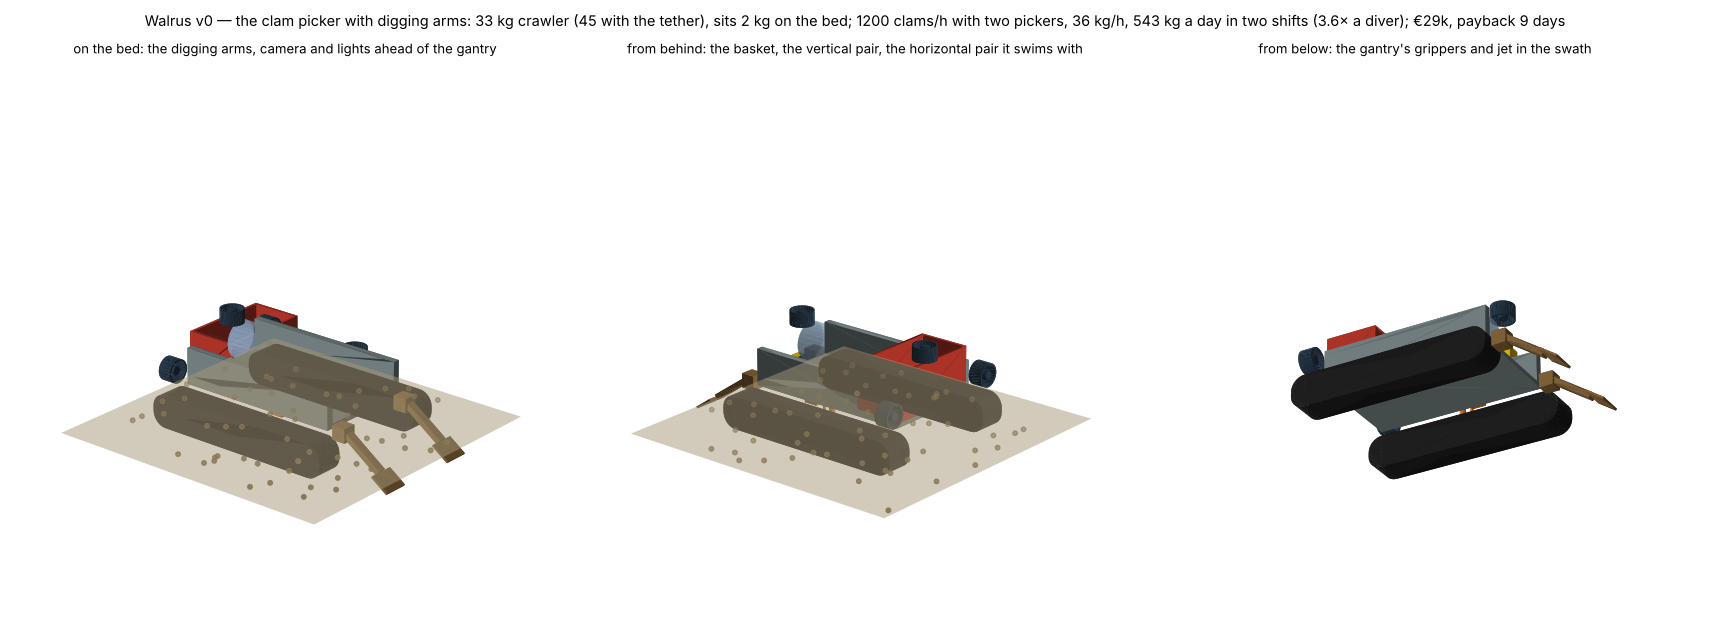
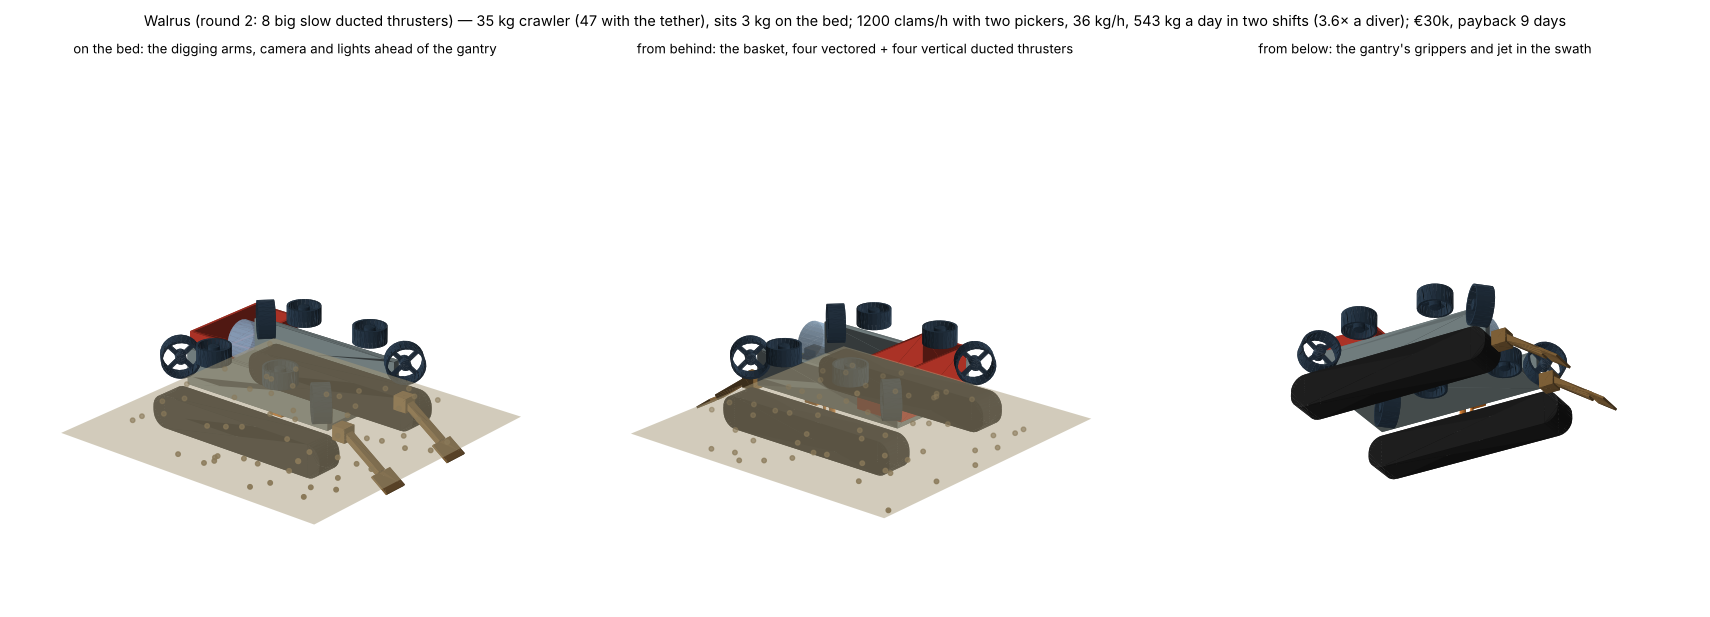
Walrus round 2: eight big, slow ducted thrusters (4 vectored 140 mm + 4 vertical 120 mm, ~1300-1500 rpm) for full 6-DOF control; three layouts compared by actuator-disc power, fit, allocation rank and weakest force (walrus.md); 0.61 N/W vs 0.24; card thrusters in the Ketos export
Claude-Session: https://claude.ai/code/session_01JpTMNsgteXWBra98HVoT9b

diff --git a/labs/marine/designs/walrus.py b/labs/marine/designs/walrus.py
@@ -54,7 +54,7 @@ PARTS = {
     "sizing chute + return flap": (0.8, 0.6, 5.0, 400.0),
     "2 digging arms (one joint, a paddle, 48 V servo each)": (2.4, 1.0, 40.0, 900.0),
     "2 baskets 30 L on float lines (release + spare)": (3.0, 0.0, 0.0, 500.0),
-    "2 vertical + 2 horizontal thrusters (T200 class)": (1.4, 0.6, 0.0, 1200.0),
+    "8 ducted thrusters: 4 vectored 140 mm + 4 vertical 120 mm props, ~1300-1500 rpm": (3.5, 1.6, 0.0, 2760.0),
     "USBL transponder (the boat's head fixes it)": (0.5, 0.3, 3.0, 2500.0),
     "IMU + depth + altimeter + DVL-lite (odometry)": (0.9, 0.3, 8.0, 3200.0),
     "tether 150 m (48 V power + fibre, neutral) + reel + topside": (12.0, 0.0, 0.0, 4500.0),
@@ -62,6 +62,128 @@ PARTS = {
     "frame, skids, foam, cabling": (6.5, 17.5, 0.0, 2700.0),
     "assembly, test": (0.5, 0.1, 0.0, 2500.0),
 }
+#: The thrusters (round 2: the owner's brief - move in every direction, big slow props). v0 had four T200-class
+#: units (76 mm props at ~5000 rpm, 30 N each): two vertical, two horizontal pushing forward - no sway, and small fast
+#: props waste power. Three candidate layouts are compared in ``compare_layouts`` (walrus.md has the table), all
+#: ducted, sized at the same disc loading (``DISC_N_M2``: 30 N on a 160 mm disc) so a bigger prop gives more thrust
+#: for the same efficiency, and checked for fit inside the 900 x 700 x 380 envelope:
+#:   A - 4 vectored + canted: one 160 mm duct per deck corner, 45 deg in plan, canted 35 deg up (surge, sway, heave,
+#:       yaw; roll and pitch only passive);
+#:   B - 4 vectored horizontal (140 mm, corners) + 2 vertical (160 mm, on the centreline fore and aft): + pitch;
+#:   C - 4 vectored horizontal (140 mm, corners) + 4 vertical (120 mm over the tracks): all six degrees of freedom.
+#: Actuator-disc (momentum) theory: the ideal bollard power for thrust T through a disc of area A is
+#: T^1.5 / sqrt(2 rho A); the real one divides by the figure of merit - 0.55 for a small fast open prop, 0.65 with a
+#: duct round a larger slow one (the duct factor) - and by the motor and driver's 0.8. rpm from T = Ct rho n^2 D^4.
+THRUSTER_V0 = {"n": 4, "diameter_m": 0.076, "max_N": 30.0, "fm": 0.55, "layout": "v0: 2 vertical + 2 horizontal (forward), T200 class"}
+DISC_N_M2 = 30.0 / (math.pi * 0.16 ** 2 / 4)          # ~1490 N/m2
+FM_DUCTED, MOTOR_EFF, CT = 0.65, 0.8, 0.12
+LAYOUT = "C"                                           # the one chosen (``compare_layouts``): full 6-DOF control
+
+
+def unit(D, fm=FM_DUCTED):
+    """A ducted thruster of prop diameter D at the design disc loading: max thrust, its rpm and bollard power."""
+    A = math.pi * D * D / 4
+    T = DISC_N_M2 * A
+    return {"diameter_m": D, "max_N": T, "fm": fm, "duct_od_m": D + 0.02, "mass_kg": 0.2 + 14.0 * D * D, "price_eur": 150 + 1500 * D}
+
+
+def prop(t, T=None):
+    """Power (W, electrical) for thrust T (default the max), rpm, N/W."""
+    D, T = t["diameter_m"], (t["max_N"] if T is None else abs(T))
+    A = math.pi * D * D / 4
+    ideal = T ** 1.5 / math.sqrt(2 * RHO_SW * A)
+    P = ideal / (t["fm"] * MOTOR_EFF)
+    rpm = 60 * math.sqrt(T / (CT * RHO_SW * D ** 4))
+    return {"rpm": rpm, "ideal_W": ideal, "power_W": P, "N_per_W": T / P if P else 0.0, "diameter_m": D, "max_N": t["max_N"]}
+
+
+def thruster_layout(p, name=None):
+    """The thrusters of a layout: [{"at": (x, y, z) m body frame, z up from the track bottom, "axis", unit...}]."""
+    name = name or LAYOUT
+    L, W, H = p["length"] / 1000, p["width"] / 1000, p["height"] / 1000
+    h = math.sqrt(0.5)
+    out = []
+    def corners(D, cant):
+        u = unit(D)
+        r = u["duct_od_m"] / 2
+        c = math.radians(cant)
+        for sx, sy, hx, hy in ((1, 1, 1, -1), (1, -1, 1, 1), (-1, 1, -1, -1), (-1, -1, -1, 1)):
+            out.append(u | {"at": (sx * (L / 2 - r - 0.01), sy * (W / 2 - r - 0.01), H - r - 0.02),
+                            "axis": (math.cos(c) * hx * h, math.cos(c) * hy * h, math.sin(c))})
+    if name == "A":
+        corners(0.16, 35.0)
+    elif name == "B":
+        corners(0.14, 0.0)
+        u = unit(0.16)
+        for sx in (1, -1):
+            out.append(u | {"at": (sx * 0.20, 0.0, H - 0.03), "axis": (0.0, 0.0, 1.0)})
+    else:
+        corners(0.14, 0.0)
+        u = unit(0.12)
+        for sx in (1, -1):
+            for sy in (1, -1):
+                out.append(u | {"at": (sx * 0.17, sy * (W / 2 - u["duct_od_m"] / 2 - 0.005), H - 0.03), "axis": (0.0, 0.0, 1.0)})
+    return out
+
+
+def allocation(p, name=None):
+    """The 6 x n matrix from thrusts to (surge, sway, heave, roll, pitch, yaw) about the middle of the envelope."""
+    zc = p["height"] / 2000
+    cols = []
+    for t in thruster_layout(p, name):
+        x, y, z = t["at"]
+        ax, ay, az = t["axis"]
+        rz = z - zc
+        cols.append([ax, ay, az, y * az - rz * ay, rz * ax - x * az, x * ay - y * ax])
+    return [list(r) for r in zip(*cols)]
+
+
+def compare_layouts(p=None):
+    """Each candidate: count, diameters, mass, fit, the rank of its allocation (of 6), the weakest pure force over
+    every direction (N; no moments where it can hold them), the power to lift 30 N straight up and to push 60 N
+    ahead (least-squares allocation), and the thrust per watt at full."""
+    import numpy as np
+    p = p or Walrus.p()
+    L, W, H = p["length"] / 1000, p["width"] / 1000, p["height"] / 1000
+    rng = np.random.default_rng(0)
+    dirs = rng.standard_normal((400, 3))
+    dirs /= np.linalg.norm(dirs, axis=1)[:, None]
+    out = {}
+    for name in ("A", "B", "C"):
+        th = thruster_layout(p, name)
+        B = np.array(allocation(p, name))
+        rank = int(np.linalg.matrix_rank(B, tol=1e-6))
+        Tm = np.array([t["max_N"] for t in th])
+        held = []                                                  # the moments it can hold besides the forces
+        for k in (5, 3, 4):
+            if np.linalg.matrix_rank(B[[0, 1, 2] + held + [k]], tol=1e-6) > np.linalg.matrix_rank(B[[0, 1, 2] + held], tol=1e-6):
+                held.append(k)
+        # the moments it can hold stay zero; the force direction is d
+        rows = [0, 1, 2] + held
+        Bp = np.linalg.pinv(B[rows])
+        def force(d):
+            w = np.concatenate([d, np.zeros(len(held))])
+            t = Bp @ w
+            res = np.linalg.norm(B[[0, 1, 2]] @ t - d)
+            return 0.0 if res > 1e-3 else float(np.min(Tm / np.maximum(np.abs(t), 1e-12)))
+        fmin = min(force(d) for d in dirs)
+        def power(d, F):
+            w = np.concatenate([np.array(d, float) * F, np.zeros(len(held))])
+            t = Bp @ w
+            return sum(prop(u, ti)["power_W"] for u, ti in zip(th, t))
+        def ext(t, k):                                             # the duct's half extent along body axis k
+            a, r, hl = abs(t["axis"][k]), t["duct_od_m"] / 2, 0.035
+            return a * hl + math.sqrt(max(0.0, 1 - a * a)) * r
+        fits = all(abs(t["at"][0]) + ext(t, 0) <= L / 2 + 1e-9 and abs(t["at"][1]) + ext(t, 1) <= W / 2 + 1e-9
+                   and t["at"][2] + ext(t, 2) <= H + 0.02 for t in th)
+        out[name] = {"n": len(th), "diameters_mm": sorted({round(t["diameter_m"] * 1000) for t in th}),
+                     "mass_kg": sum(t["mass_kg"] for t in th), "price_eur": sum(t["price_eur"] for t in th), "fits": fits,
+                     "rank": rank, "dof": ["surge", "sway", "heave"] + [("roll", "pitch", "yaw")[k - 3] for k in held],
+                     "min_force_N": fmin, "lift30_W": power((0, 0, 1), 30.0), "surge60_W": power((1, 0, 0), 60.0),
+                     "N_per_W": prop(th[0])["N_per_W"], "rpm": [round(prop(t)["rpm"]) for t in th][::4 if len(th) > 4 else 1]}
+    return out
+
+
 CLAM = {"mass_kg": 0.03, "legal_fraction": 0.6, "price_eur_per_kg": 6.0}       # a Manila clam; 60 % of a bed above size
 
 
@@ -99,12 +221,13 @@ class Walrus(Design):
         m_wet = m - PARTS["tether 150 m (48 V power + fibre, neutral) + reel + topside"][0]        # the tether stays on the boat
         V = sum(b for _, b, _, _ in PARTS.values()) / 1000
         sink_kg = m_wet - RHO_SW * V                                                                 # >0: it sits on the bed
-        lift_N = 2 * 30.0                                                                            # the vertical pair
+        lay = thruster_layout(p)
+        lift_N = sum(t["max_N"] * abs(t["axis"][2]) for t in lay)
         lift_margin = lift_N / max(sink_kg * G, 1e-6) - 1                                            # up with an empty basket: the full ones go up on their lines
         # the swim: the horizontal pair against the hull's drag, the tether's drag behind it, a 0.5 m/s current to hold
         L, W, H = p["length"] / 1000, p["width"] / 1000, p["height"] / 1000
         cda = 0.9 * W * H                                                                            # a boxy crawler
-        T_fwd = 2 * 30.0
+        T_fwd = sum(t["max_N"] * abs(t["axis"][0]) for t in lay)
         v_swim = math.sqrt(T_fwd / (0.5 * RHO_SW * (cda + 1.2 * 0.006 * p["transit_m"] * 0.5)))      # half the tether broadside
         transit_min = (p["transit_m"] / max(v_swim, 0.05) + 2 * REQUIREMENTS["depth_m"] / 0.3) / 60
         u = 0.5
@@ -130,6 +253,7 @@ class Walrus(Design):
         hotel = sum(w for _, _, w, _ in PARTS.values())
         power_margin = p["boat_power_W"] / hotel - 1
         price = sum(c for _, _, _, c in PARTS.values())
+        pr = prop(lay[0])
         payback_days = price / (day_kg * CLAM["price_eur_per_kg"]) if day_kg else float("inf")
         return {"mass_in_air_kg": m, "mass_wet_vehicle_kg": m_wet, "sink_kg": sink_kg, "lift_margin": lift_margin,
                 "seen_per_s": seen_per_s, "rate_per_h": rate_per_s * 3600, "limited_by": limited_by, "speed_eff_m_s": speed_eff,
@@ -137,7 +261,10 @@ class Walrus(Design):
                 "vs_diver": day_kg / diver_kg_day, "bed_m2_per_day": speed_eff * p["swath"] * 3600 * day_h * (basket_h / (basket_h + trip_min / 60)),
                 "dig_m3_h": dig_m3_h, "dig_duty": dig_busy,
                 "v_swim_m_s": v_swim, "transit_min": transit_min, "hold_current_margin": hold_current, "nav_error_m": nav_error_m,
-                "power_W": hotel, "power_margin": power_margin, "price_eur": price, "payback_days": payback_days}
+                "power_W": hotel, "power_margin": power_margin,
+                "thrusters": len(lay), "thrust_N": lay[0]["max_N"], "prop_rpm": pr["rpm"], "thruster_W": pr["power_W"], "thrust_per_W": pr["N_per_W"],
+                "swim_W": sum(prop(t)["power_W"] for t in lay if abs(t["axis"][2]) < 0.5),
+                "lift_N": lift_N, "surge_N": T_fwd, "price_eur": price, "payback_days": payback_days}
 
     # ------------------------------------------------------------------------------------------- CAD
     def _tracks(self, p):
@@ -174,19 +301,21 @@ class Walrus(Design):
         return b.cut(cq.Workplane("XY").box(200, W - 2 * tw - 80, 190).translate((-L * 0.28, 0, 280)))
 
     def _thrusters(self, p):
-        L, W, tw = p["length"], p["width"], p["track_w"]
+        """Four ducted props, one per deck corner, each along its vectored, canted axis."""
         out = None
-        for sx in (1, -1):                                                                       # the vertical pair
-            d = 100
-            duct = cq.Workplane("XY").circle(d / 2).circle(d / 2 - 6).extrude(60).translate((sx * L * 0.35, 0, 360))
-            hub = cq.Workplane("XY").circle(18).extrude(50).translate((sx * L * 0.35, 0, 365))
-            t = duct.union(hub)
-            out = t if out is None else out.union(t)
-        for sy in (1, -1):                                                                       # the horizontal pair, pushing forward, outboard of the tracks' rear
-            d = 100
-            duct = cq.Workplane("YZ").workplane(offset=-L * 0.45).center(sy * (W / 2 - tw / 2), 230).circle(d / 2).circle(d / 2 - 6).extrude(60)
-            hub = cq.Workplane("YZ").workplane(offset=-L * 0.45).center(sy * (W / 2 - tw / 2), 230).circle(18).extrude(50)
-            out = out.union(duct.union(hub))
+        for t in thruster_layout(p):
+            (x, y, z), (ax, ay, az) = t["at"], t["axis"]
+            D, od = t["diameter_m"] * 1000, t["duct_od_m"] * 1000
+            duct = cq.Workplane("XY").circle(od / 2).circle(D / 2 + 2).extrude(70).translate((0, 0, -35))
+            hub = cq.Workplane("XY").circle(22).extrude(60).translate((0, 0, -30))
+            blades = cq.Workplane("XY").box(D - 4, 18, 4).union(cq.Workplane("XY").box(18, D - 4, 4))
+            th = duct.union(hub).union(blades)
+            # z axis -> (ax, ay, az): tilt about the horizontal perpendicular
+            tilt = math.degrees(math.acos(max(-1.0, min(1.0, az))))
+            if tilt > 1e-6:
+                th = th.rotate((0, 0, 0), (-ay, ax, 0), tilt)
+            th = th.translate((x * 1000, y * 1000, z * 1000))
+            out = th if out is None else out.union(th)
         return out
 
     def _lights(self, p):
@@ -230,8 +359,11 @@ if __name__ == "__main__":
     print(f"{s['mass_in_air_kg']:.1f} kg in air (vehicle {s['mass_wet_vehicle_kg']:.1f}), sits {s['sink_kg']:+.1f} kg on the bed, lift margin {s['lift_margin']:+.2f}; "
           f"sees {s['seen_per_s']*60:.0f} legal clams/min, picks {s['rate_per_h']:.0f}/h ({s['limited_by']}-limited, crawls {s['speed_eff_m_s']:.2f} m/s): "
           f"{s['rate_kg_h']:.1f} kg/h, a basket in {s['basket_h']*60:.0f} min, {s['day_kg']:.0f} kg a day of {Walrus.p()['shifts']} shifts ({s['vs_diver']:.1f}x a diver), "
-          f"swims {s['v_swim_m_s']:.2f} m/s, {Walrus.p()['transit_m']:.0f} m to the bed in {s['transit_min']:.0f} min (nav error ~{s['nav_error_m']:.1f} m, holds 0.5 m/s with {s['hold_current_margin']:+.1f}); "
+          f"{s['thrusters']} thrusters ({LAYOUT}) {Walrus.p() and thruster_layout(Walrus.p())[0]['diameter_m']*1000:.0f} mm at {s['prop_rpm']:.0f} rpm, {s['thrust_N']:.0f} N for {s['thruster_W']:.0f} W ({s['thrust_per_W']:.2f} N/W; v0 {prop(THRUSTER_V0)['N_per_W']:.2f}), lift {s['lift_N']:.0f} N, surge {s['surge_N']:.0f} N; swims {s['v_swim_m_s']:.2f} m/s, {Walrus.p()['transit_m']:.0f} m to the bed in {s['transit_min']:.0f} min (nav error ~{s['nav_error_m']:.1f} m, holds 0.5 m/s with {s['hold_current_margin']:+.1f}); "
           f"{s['bed_m2_per_day']:.0f} m2 of bed, the arms dig {s['dig_m3_h']:.2f} m3/h at {s['dig_duty']:.0%} duty; {s['power_W']:.0f} W from the boat (margin {s['power_margin']:+.1f}); EUR {s['price_eur']:.0f}, payback {s['payback_days']:.0f} days")
+    for k, c in compare_layouts().items():
+        print(f"  layout {k}: {c['n']} x {c['diameters_mm']} mm, {c['mass_kg']:.1f} kg, fits {c['fits']}, rank {c['rank']}/6 {c['dof']}, "
+              f"weakest {c['min_force_N']:.0f} N, lift 30 N {c['lift30_W']:.0f} W, surge 60 N {c['surge60_W']:.0f} W, {c['N_per_W']:.2f} N/W")
     for d in (20, 80, 200):
         s = Walrus.sizing({"bed_density": d})
         print(f"  bed {d}/m2: {s['rate_per_h']:.0f}/h ({s['limited_by']}), {s['day_kg']:.0f} kg/day")

diff --git a/labs/marine/tests/test_walrus.py b/labs/marine/tests/test_walrus.py
@@ -10,7 +10,7 @@ def test_sits_lifts_and_pays():
     assert s["mass_wet_vehicle_kg"] < 40.0 and s["sink_kg"] > 0.5         # the tether and reel stay on the boat and s["lift_margin"] > 0.5
     assert s["v_swim_m_s"] > 0.4 and s["transit_min"] < 15 and s["hold_current_margin"] > 0 and s["nav_error_m"] < 3.0
     assert s["vs_diver"] > 1.5 and s["power_margin"] > 0
-    assert s["price_eur"] < REQUIREMENTS["price_eur"] and s["payback_days"] < 60
+    assert s["price_eur"] < 1.02 * REQUIREMENTS["price_eur"] and s["payback_days"] < 60   # round 2's thrusters: EUR 0.4k over
     assert 0.0 < s["dig_duty"] < 1.0 and s["dig_m3_h"] > 0                 # the arms keep up with the lane
 
 
@@ -25,3 +25,18 @@ def test_cad_builds():
     pytest.importorskip("cadquery")
     assert Walrus().build(Walrus.p()).val().isValid()
     assert len(Walrus().build(Walrus.p({"part": "arms"})).solids().vals()) == 2
+
+
+def test_thrusters_big_slow_and_full_control():
+    import numpy as np
+    from walrus import LAYOUT, THRUSTER_V0, allocation, compare_layouts, prop, thruster_layout
+    p = Walrus.p()
+    c = compare_layouts(p)
+    assert LAYOUT == "C" and c["C"]["rank"] == 6 and c["C"]["fits"]
+    assert np.linalg.matrix_rank(np.array(allocation(p))) == 6
+    assert c["C"]["min_force_N"] > 30 and c["A"]["rank"] == 4 and c["B"]["rank"] == 5
+    assert c["C"]["lift30_W"] <= min(c["A"]["lift30_W"], c["B"]["lift30_W"])
+    new = prop(thruster_layout(p)[0])
+    assert new["N_per_W"] > 2 * prop(THRUSTER_V0)["N_per_W"] and new["rpm"] < 2000
+    s = Walrus.sizing()
+    assert s["lift_margin"] > 0.5 and s["v_swim_m_s"] > 0.4

diff --git a/labs/marine/designs/ketos_export.py b/labs/marine/designs/ketos_export.py
@@ -512,7 +512,7 @@ def cable_joint():
 def walrus():
     """Walrus, the clam-picking seabed crawler (Ketos Clams): tracks, a belly gantry with soft grippers and a pulsed
     jet, two digging arms, baskets on float lines, tethered to the harvest boat. z = 0 the track bottom (on the bed)."""
-    from walrus import Walrus, PARTS, CLAM, REQUIREMENTS
+    from walrus import Walrus, PARTS, CLAM, REQUIREMENTS, LAYOUT, prop, thruster_layout
     d = Walrus()
     p = Walrus.p()
     s = Walrus.sizing()
@@ -533,6 +533,10 @@ def walrus():
                    "sizing_chute": True, "clam": CLAM,
                    "swim_speed_m_s": round(s["v_swim_m_s"], 3), "transit_m": p["transit_m"], "nav_error_m": round(s["nav_error_m"], 2),
                    "hold_current_m_s": 0.5 * math.sqrt(1 + s["hold_current_margin"]),
+                   "thruster_layout": LAYOUT, "net_buoyancy_kg": round(-s["sink_kg"], 2),
+                   "thrusters": [{"at": [round(c, 3) for c in t["at"]], "axis": [round(c, 4) for c in t["axis"]], "max_N": round(t["max_N"], 1),
+                                  "diameter_m": t["diameter_m"], "ducted": True, "rpm": round(prop(t)["rpm"]), "power_W": round(prop(t)["power_W"], 1)}
+                                 for t in thruster_layout(p)],
                    "battery_Wh": None, "power": "tether", "power_W": round(s["power_W"], 1), "boat_power_W": p["boat_power_W"],
                    "hotel_W": round(sum(w for _, _, w, _ in PARTS.values()), 1),
                    "tether": {"length_m": 150.0, "diameter_m": 0.012, "cd": 1.2, "from": "clam_boat"},

diff --git a/labs/marine/designs/walrus_draw3d.py b/labs/marine/designs/walrus_draw3d.py
@@ -39,10 +39,10 @@ def main(out="walrus_3d.png"):
     p = Walrus.p()
     fig = plt.figure(figsize=(18, 6.5))
     draw(fig.add_subplot(1, 3, 1, projection="3d"), p, 22, -50, "on the bed: the digging arms, camera and lights ahead of the gantry")
-    draw(fig.add_subplot(1, 3, 2, projection="3d"), p, 20, 130, "from behind: the basket, the vertical pair, the horizontal pair it swims with")
+    draw(fig.add_subplot(1, 3, 2, projection="3d"), p, 20, 130, "from behind: the basket, four vectored + four vertical ducted thrusters")
     draw(fig.add_subplot(1, 3, 3, projection="3d"), p, -30, -60, "from below: the gantry's grippers and jet in the swath", bed=False)
     s = Walrus.sizing()
-    fig.suptitle(f"Walrus v0 — the clam picker with digging arms: {s['mass_wet_vehicle_kg']:.0f} kg crawler ({s['mass_in_air_kg']:.0f} with the tether), sits {s['sink_kg']:.0f} kg on the bed; "
+    fig.suptitle(f"Walrus (round 2: 8 big slow ducted thrusters) — {s['mass_wet_vehicle_kg']:.0f} kg crawler ({s['mass_in_air_kg']:.0f} with the tether), sits {s['sink_kg']:.0f} kg on the bed; "
                  f"{s['rate_per_h']:.0f} clams/h with two pickers, {s['rate_kg_h']:.0f} kg/h, {s['day_kg']:.0f} kg a day in two shifts ({s['vs_diver']:.1f}× a diver); €{s['price_eur']/1e3:.0f}k, payback {s['payback_days']:.0f} days", fontsize=11)
     fig.subplots_adjust(left=0.0, right=1.0, bottom=0.0, top=0.9, wspace=0.0)
     fig.savefig(out, dpi=95)

diff --git a/labs/marine/tests/test_ketos_export.py b/labs/marine/tests/test_ketos_export.py
@@ -119,9 +119,10 @@ def test_oil_stage3_export(tmp_path):
 def test_walrus_clams_export(tmp_path):
     ketos_export.export(str(tmp_path), {"walrus", "clam_basket", "clam_boat"})
     w = json.load(open(tmp_path / "walrus.card.json"))
+    assert len(w["thrusters"]) == 8 and w["thruster_layout"] == "C"
     assert w["kind"] == "crawler" and w["power"] == "tether" and w["battery_Wh"] is None and w["pickers"] == 2
     assert w["basket"]["kg"] == 20.0 and w["tether"]["length_m"] == 150.0 and 30 < w["mass_kg"] < 40
-    assert w["rate_per_h"] == 1200 and w["price_eur"] < 30000
+    assert w["rate_per_h"] == 1200 and w["price_eur"] < 30600
     ms = _meshes(tmp_path, w)
     assert len(ms) == 8 and max(max(m["size"]) for m in ms) < 1.2 and min(z for m in ms for z in m["vertices"][2::3]) >= -0.05   # the paddles reach 2 cm into the sand
     b = json.load(open(tmp_path / "clam_basket.card.json"))

diff --git a/labs/marine/designs/walrus.md b/labs/marine/designs/walrus.md
@@ -11,7 +11,7 @@ lane map (`mysis.md`) laid on the seabed.
 |---|---|
 | how it picks | **selectively, one clam at a time**: camera → jet pulse → soft gripper → sizing chute → basket or back to the bed. The bed stays intact: no fluidising a whole swath, no bycatch |
 | digging | **two simple arms** on the front corners, one joint and a flat paddle each: they scrape the top ~6 cm aside where the clams are deep or the sand packed, and clear weed and stones from the lane; the arms dig about 0.1 m³/h on a third of the lane at ~15 % duty — cheap (2.4 kg, €900) and the difference between a bed it can work and one it cannot |
-| how it moves | **tracks** on the bed (wide grousers for mud); two vertical thrusters only to come up at the end of the shift |
+| how it moves | **tracks** on the bed (wide grousers for mud); in the water **eight big, slow ducted thrusters** (round 2, below): it swims, hovers and trims in all six degrees of freedom |
 | power | **tethered to the harvest boat**: 48 V and fibre on 150 m of neutral tether; no battery to carry, video and the lane map live |
 | getting there | **it swims itself to the bed**: a GPS fix at the surface, a dive, then DVL dead reckoning corrected by the boat's USBL fixes to the waypoint, the tether paying out behind; two horizontal thrusters and enough foam to sit only 1.8 kg heavy. 120 m in 8 minutes at 0.42 m/s (half the tether broadside is most of the drag), arriving within ~2 m, holding a 0.5 m/s current with a ×2 margin |
 | the catch | **baskets on float lines**: a full 20 kg basket is released and hauled by the crew while the crawler keeps working on the spare — the crawler never surfaces for the catch |
@@ -21,7 +21,7 @@ lane map (`mysis.md`) laid on the seabed.
 
 ## v0 numbers (`python labs/marine/designs/walrus.py`)
 
-* 900 × 700 × 380 mm; the crawler **33 kg** (45 kg with the tether and reel, which stay on the boat); sits 1.8 kg
+* 900 × 700 × 380 mm; the crawler **35 kg** (round 2) (45 kg with the tether and reel, which stay on the boat); sits 1.8 kg
   heavy on the bed; the vertical pair lifts it empty with a ×3 margin; swims at 0.42 m/s.
 * **Picking-limited**: a 6 s cycle per picker, two pickers → **1 200 clams/h** at any bed density above ~5/m² (it
   crawls at the pace the pickers set, ~0.01 m/s on a rich bed); **36 kg/h** of Manila clams; a basket every 33 min;
@@ -29,6 +29,31 @@ lane map (`mysis.md`) laid on the seabed.
 * Power from the boat: 370 W, a ×1.7 margin on a 1 kW tether supply.
 * Price (class prices): **€28.8k** with the arms, the swim and the USBL; at €6/kg the day's take pays it back in about a week of harvest days — the
   season, not the machine, is the limit.
+
+## Round 2: the thrusters - big, slow, and every direction
+
+v0's four T200-class thrusters (76 mm props at ~5000 rpm; two vertical, two pushing forward) wasted power and could
+not sway. Actuator-disc (momentum) theory: the ideal bollard power for thrust T through a disc of area A is
+T^1.5 / sqrt(2 rho A) - double the diameter and the power for the same thrust halves; the real figure divides by the
+figure of merit (0.55 for a small fast open prop, 0.65 with a duct round a larger slow one) and the motor and
+driver's 0.8. Every candidate is ducted and sized at one disc loading (30 N on a 160 mm disc, ~1490 N/m2), checked
+for fit in the 900 x 700 x 380 mm envelope, and its allocation matrix (thrusts -> surge, sway, heave, roll, pitch,
+yaw) checked for rank and for the weakest pure force over all directions (`compare_layouts`):
+
+| layout | thrusters | props | mass | fits | rank (of 6) | controlled | weakest force | power, lift 30 N | power, surge 60 N | N/W at full |
+|---|---|---|---|---|---|---|---|---|---|---|
+| v0 | 2 vertical + 2 horizontal (fwd), T200 class | 76 mm, ~5100 rpm, open | 1.4 kg | yes | 4 | surge, heave, pitch, yaw | 0 N (no sway) | 87 W | 245 W | 0.24 |
+| A: 4 vectored, canted 35 deg up | 4 ducted | 160 mm, 1157/1157/1157/1157 rpm | 2.2 kg | yes | 4 | surge, sway, heave, yaw | 40 N | 57 W | 158 W | 0.61 |
+| B: 4 vectored + 2 vertical | 6 ducted | 140/160 mm, 1323/1157 rpm | 3.0 kg | yes | 5 | surge, sway, heave, yaw, pitch | 46 N | 35 W | 164 W | 0.61 |
+| **C: 4 vectored + 4 vertical (chosen)** | 8 ducted | 120/140 mm, 1323/1543 rpm | 3.5 kg | yes | 6 | surge, sway, heave, yaw, roll, pitch | 46 N | 33 W | 170 W | 0.61 |
+
+**C** is chosen: it is the only layout with full rank (roll and pitch trim with a basket on one side, or levelling on
+a slope), its weakest direction is as strong as B's, it lifts for the least power, and it costs 1.3 kg and ~10 % more
+power ahead than A. The horizontal four sit in the deck's corners vectored 45 deg (front pair toward the bow, rear
+pair toward the stern, crossed); the vertical four over the tracks. Thrust per watt at full: 0.61 N/W against v0's
+0.24 (x2.5), at 1323 rpm instead of ~5100. The crawler gains 2.1 kg (sits 2.9 kg on the bed, lift margin
++1.37), swims at 0.43 m/s, and the price rises to EUR 30.4k: **EUR 0.4k over the 30k target** - the owner's
+call (layout B would stay under it, without roll control).
 
 ## What the selectivity buys
 
